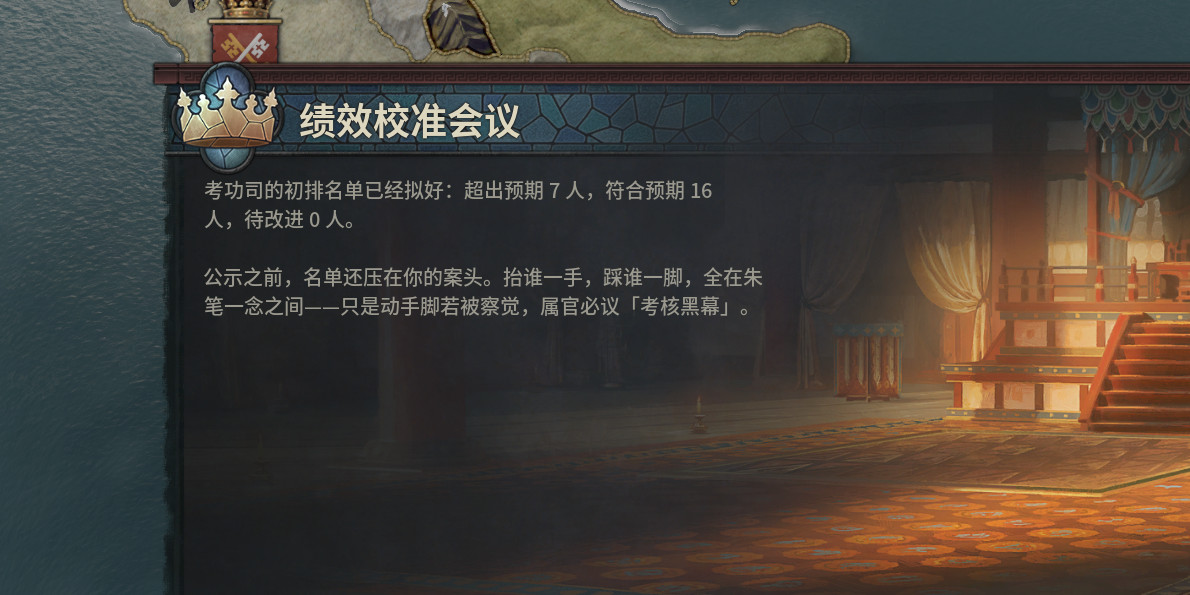
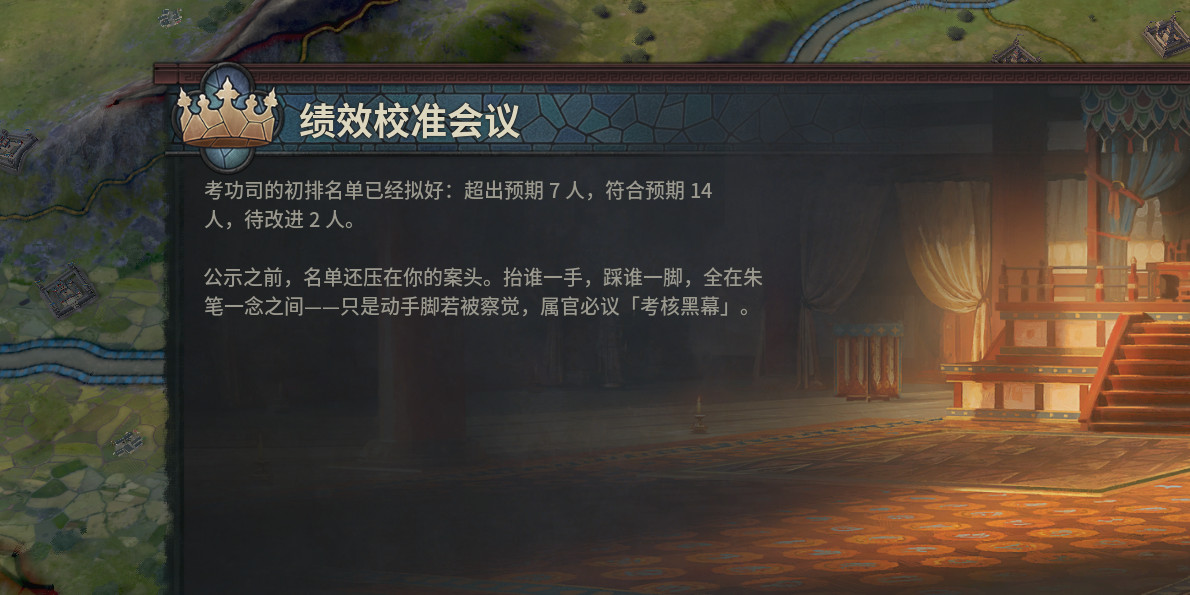
Replace Workshop media with the complete GREEN capture

Changed region(s): [[0.0, 0.0, 1.0, 1.0], [0.5908, 0.3025, 0.6218, 0.3328], [0.2487, 0.363, 0.2798, 0.3933]]

diff --git a/mod_zhongguo_style/tools/compose_workshop_media.py b/mod_zhongguo_style/tools/compose_workshop_media.py
@@ -25,7 +25,8 @@ MOD_ROOT = Path(__file__).resolve().parent.parent
 DEFAULT_OUTPUT = MOD_ROOT / "workshop" / "media"
 DEFAULT_POLICY_LOCK = MOD_ROOT / "workshop" / "media-policy-lock.json"
 DEFAULT_ARTIFACTS = Path(
-    r"Z:\ck3_mod_rewrite_process_assets\zg361\runs\zga_20260829_061314_ea5f04ad"
+    r"Z:\ck3_mod_rewrite_process_assets\zg361\promo\captures"
+    r"\zga_20260830_0930_clean_2fa2ac8_mcp"
 )
 EXPECTED_SIZE = (2560, 1440)
 MAX_BYTES = 2_000_000
@@ -55,45 +56,45 @@ class PolicyCardRecipe:
 PROJECTIONS = (
     Projection(
         "06_calibration_event.png",
[2 lines of base64/hex data omitted]
         "01_calibration_meeting.jpg",
         (420, 280, 1610, 875),
[2 lines of base64/hex data omitted]
     ),
     Projection(
         "07_result_summary.png",
[2 lines of base64/hex data omitted]
         "02_review_cohort_frozen.jpg",
         (430, 275, 1605, 885),
[2 lines of base64/hex data omitted]
     ),
     Projection(
         "08_scoreboard_panel.png",
[2 lines of base64/hex data omitted]
         "03_scoreboard.jpg",
         (430, 130, 1640, 1020),
[2 lines of base64/hex data omitted]
     ),
     Projection(
         "09_jingcha_mandate_event.png",
[2 lines of base64/hex data omitted]
         "04_jingcha_mandate.jpg",
         (420, 280, 1610, 875),
[2 lines of base64/hex data omitted]
     ),
     Projection(
         "09_jingcha_activity_detail.png",
[2 lines of base64/hex data omitted]
         "05_free_jingcha_activity.jpg",
         (720, 120, 2000, 1200),
[2 lines of base64/hex data omitted]
     ),
     Projection(
         "10_superior_result.png",
[2 lines of base64/hex data omitted]
         "06_superior_325_result.jpg",
         (430, 275, 1605, 885),
[2 lines of base64/hex data omitted]
     ),
 )
 

diff --git a/mod_zhongguo_style/tools/test_compose_workshop_media.py b/mod_zhongguo_style/tools/test_compose_workshop_media.py
@@ -144,6 +144,20 @@ class WorkshopMediaTests(unittest.TestCase):
         with self.assertRaisesRegex(ValueError, "requires a policy-card lock"):
             media.selected_projections(None, policy_cards_only=True)
 
+        release_lock = json.loads(
+            media.DEFAULT_POLICY_LOCK.read_text(encoding="utf-8")
+        )
+        self.assertEqual(
+            media.DEFAULT_ARTIFACTS.resolve(),
+            Path(release_lock["artifact_root"]).resolve(),
+        )
+        release_projections = media.selected_projections(media.DEFAULT_POLICY_LOCK)
+        self.assertEqual(8, len(release_projections))
+        self.assertEqual(
+            media.EXPECTED_RELEASE_MEDIA_INVENTORY,
+            tuple(projection.output for projection in release_projections),
+        )
+
     def test_green_capture_lock_renders_two_deterministic_sub_2mb_jpegs(self) -> None:
         with tempfile.TemporaryDirectory() as temporary:
             root = Path(temporary)

diff --git a/mod_zhongguo_style/workshop/media.md b/mod_zhongguo_style/workshop/media.md
@@ -1,28 +1,32 @@
 # ZhongGuo 361 Workshop Media
 
-The six currently tracked JPEGs are deterministic, presentation-only crops
-from the first full-batch `GREEN` CK3 acceptance artifact. They are real game
-captures, not generated illustrations; the untouched PNG evidence remains at
-the external artifact location below. That historical run was later proved to
-have the first-cycle newcomer bug: slots 1–2 visibly show `7 / 16 / 0`, and
-slot 3 freezes the same invalid cohort. Those three tracked files are retained
-only as process history and are **RED for publication**. The renderer now
-rejects a base artifact unless both report layers are GREEN and the run carries
-the live `bootstrap_first_review_strict_7_14_2` marker.
+The eight tracked JPEGs are deterministic, presentation-only crops from one
+final complete `GREEN` CK3 promo capture. They are real game captures, not
+generated illustrations; the untouched PNG evidence and raw video remain at
+the external artifact location below. Slots 1–2 explicitly show the corrected
+strict first-cycle `7 / 14 / 2` distribution; slot 3 freezes that same corrected
+cohort but crops the aggregate counters out of frame. Slots 7–8 show the real
+#001 and #361 policy cards from the same run. The earlier `7 / 16 / 0` JPEGs
+remain in Git history and external process artifacts only; they are **RED for
+publication** and were not deleted.
 
-The final eight-image strip must replace slots 1–3 from one final complete
-`7 / 14 / 2` promo `GREEN` capture and add real policy cards #001 and #361
-from that same run. Until its lock is reviewed, slots 1–3 and 7–8 remain
-explicitly pending and no substitute image may be published. Workshop JPEGs
-must not be put in the mod release staging.
+The renderer binds slots 1–6 through frozen source/output hashes and slots 7–8
+through `workshop/media-policy-lock.json`. Raw-to-JPEG reproduction requires
+both report layers to be GREEN, the live
+`bootstrap_first_review_strict_7_14_2` marker, and one matching artifact root
+for all eight projections. Workshop JPEGs must not be put in the mod release
+staging.
 
 ## Evidence source
 
-- Artifact root: `Z:\ck3_mod_rewrite_process_assets\zg361\runs\zga_20260829_061314_ea5f04ad`
+- Artifact root: `Z:\ck3_mod_rewrite_process_assets\zg361\promo\captures\zga_20260830_0930_clean_2fa2ac8_mcp`
 - Capture directory: `cell/`
 - Acceptance result: `GREEN`, CK3 `1.19.0.6`, isolated userdir, 2560×1440
[7 lines of base64/hex data omitted]
 - Renderer: `tools/compose_workshop_media.py`; Pillow JPEG quality 90,
   optimized progressive 4:4:4 (`subsampling=0`); each output is below
   Steam's 2,000,000-byte limit.
@@ -31,25 +35,18 @@ must not be put in the mod release staging.
 
 | Order | Feature / 功能 | Acceptance source | Source SHA-256 | Crop `(left, top, right, bottom)` | Workshop JPEG | Dimensions | Bytes | Output SHA-256 |
 |---:|---|---|---|---|---|---:|---:|---|
[14 lines of base64/hex data omitted]
 
-The two final recipes are already frozen, but their hashes and byte counts are
-not guessed in advance:
-
-| Order | Feature / 功能 | Required source in the final promo GREEN run | Crop | Workshop JPEG | Current state |
-|---:|---|---|---|---|---|
-| 7 | KPI evidence policy / #001 KPI 分项证据单 | `cell/12_policy_001_event.png` | `420,280,1610,875` | `media/07_policy_001_kpi_evidence.jpg` | Pending formal capture and lock |
-| 8 | Performance charter / #361 三六一绩效宪章 | `cell/12_policy_361_event.png` | `420,280,1610,875` | `media/08_policy_361_charter.jpg` | Pending formal capture and lock |
-
-Both become 1190×595 progressive 4:4:4 JPEGs. The renderer rejects either
-output at 2,000,000 bytes or above. Their source and output SHA-256 values enter
-`workshop/media-policy-lock.json` only after the complete promo run passes the
-same report/index/timeline/MKV provenance contract as the final video.
+Slots 7–8 are frozen in `workshop/media-policy-lock.json`, created only after
+the complete promo run passed the report/index/timeline/MKV provenance
+contract. The renderer rejects every output at 2,000,000 bytes or above.
 
 Recommended captions (Chinese first) are:
 
@@ -74,21 +71,20 @@ source artifact:
 python mod_zhongguo_style/tools/compose_workshop_media.py --check-tracked
 ```
 
-The renderer pins all six currently active source PNG hashes and rejects
-unexpected JPEGs in `workshop/media/`. The `--check-tracked` form is the CI-safe
-integrity check for machines that do not hold the external raw artifact; it
-verifies the exact active inventory (six files now, eight after the reviewed
-policy lock is committed), JPEG decoding, dimensions, size limits and pinned
-output hashes. It does not replace the local raw-to-JPEG reproduction check.
-Neither mode deletes, rewrites or moves the external artifact.
-If a future final GREEN run is intentionally adopted, update the six source
-hashes, crop table, output hashes and this document together; do not claim an
-old crop as current evidence.
+The renderer pins all eight source PNG and output JPEG hashes and rejects
+unexpected JPEGs in `workshop/media/`. The `--check-tracked` form is the
+CI-safe integrity check for machines that do not hold the external raw
+artifact; it verifies the exact eight-file inventory, JPEG decoding,
+dimensions, size limits and pinned output hashes. It does not replace the local
+raw-to-JPEG reproduction check. Neither mode deletes, rewrites or moves the
+external artifact. If a future final GREEN run is intentionally adopted,
+update the default artifact, all source/output hashes, policy lock and this
+document together; do not mix captures from different runs.
 
-After the final promo capture is GREEN, create the policy lock beside the
-preserved capture first; this action validates the root/cell reports, evidence
-index, timeline marks, raw MKV, all six captured policy cards, and exact source
-hashes before it writes any lock. It does not write JPEGs:
+For a future replacement capture, create the policy lock beside the preserved
+capture first. This validates the root/cell reports, evidence index, timeline
+marks, raw MKV, all six captured policy cards, and exact source hashes before
+it writes any lock. It does not write JPEGs:
 
 ```powershell
 $capture = "Z:\ck3_mod_rewrite_process_assets\zg361\promo\captures\<final-green-run>"
@@ -104,12 +100,10 @@ $lock = "$capture\release\workshop-media-policy-lock.json"
 
 Visually inspect the two preview JPEGs, retain that external lock and preview,
 then adopt the reviewed lock as `workshop/media-policy-lock.json` together with
-the final run's `DEFAULT_ARTIFACTS` path and updated six base-image pins. A
-default render/check then expects all eight files; `--check-tracked` consumes
-the committed lock without needing the external artifact. A lock from any
-other artifact root is rejected during raw-to-JPEG reproduction. Until the
-committed lock exists, the default six-image integrity check remains GREEN and
-slots 7–8 remain pending.
+the same run's `DEFAULT_ARTIFACTS` path and updated six base-image pins. A
+default render/check expects all eight files; `--check-tracked` consumes the
+committed lock without needing the external artifact. A lock from any other
+artifact root is rejected during raw-to-JPEG reproduction.
 
 ## Publication handoff
 
